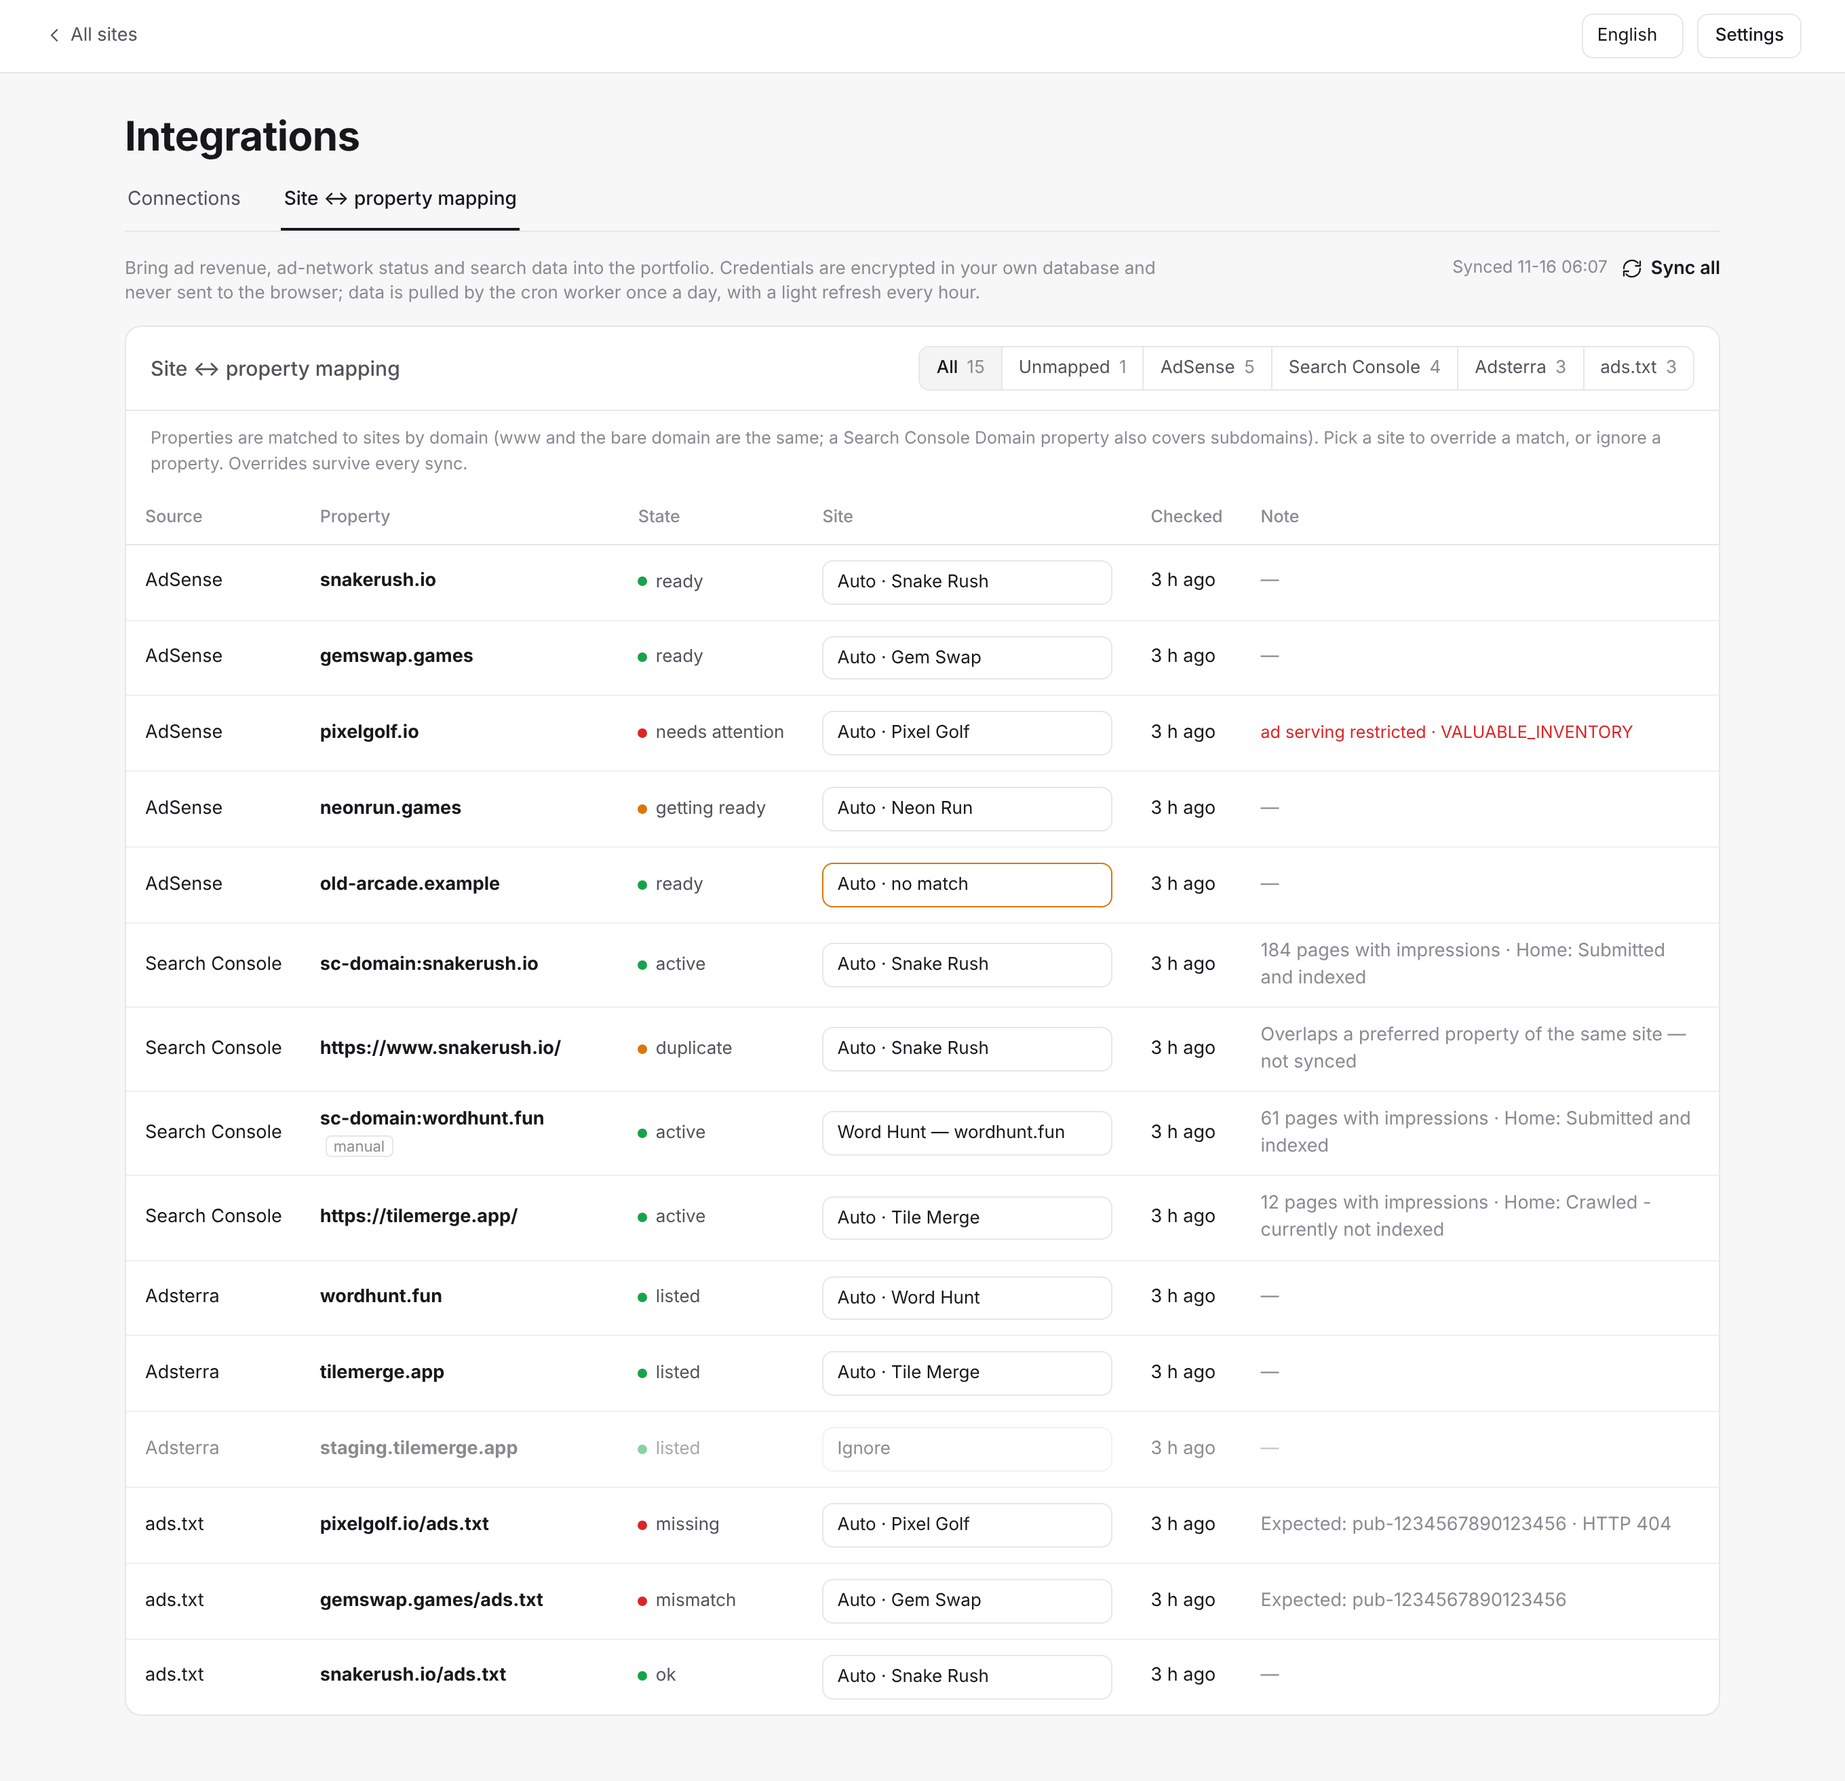
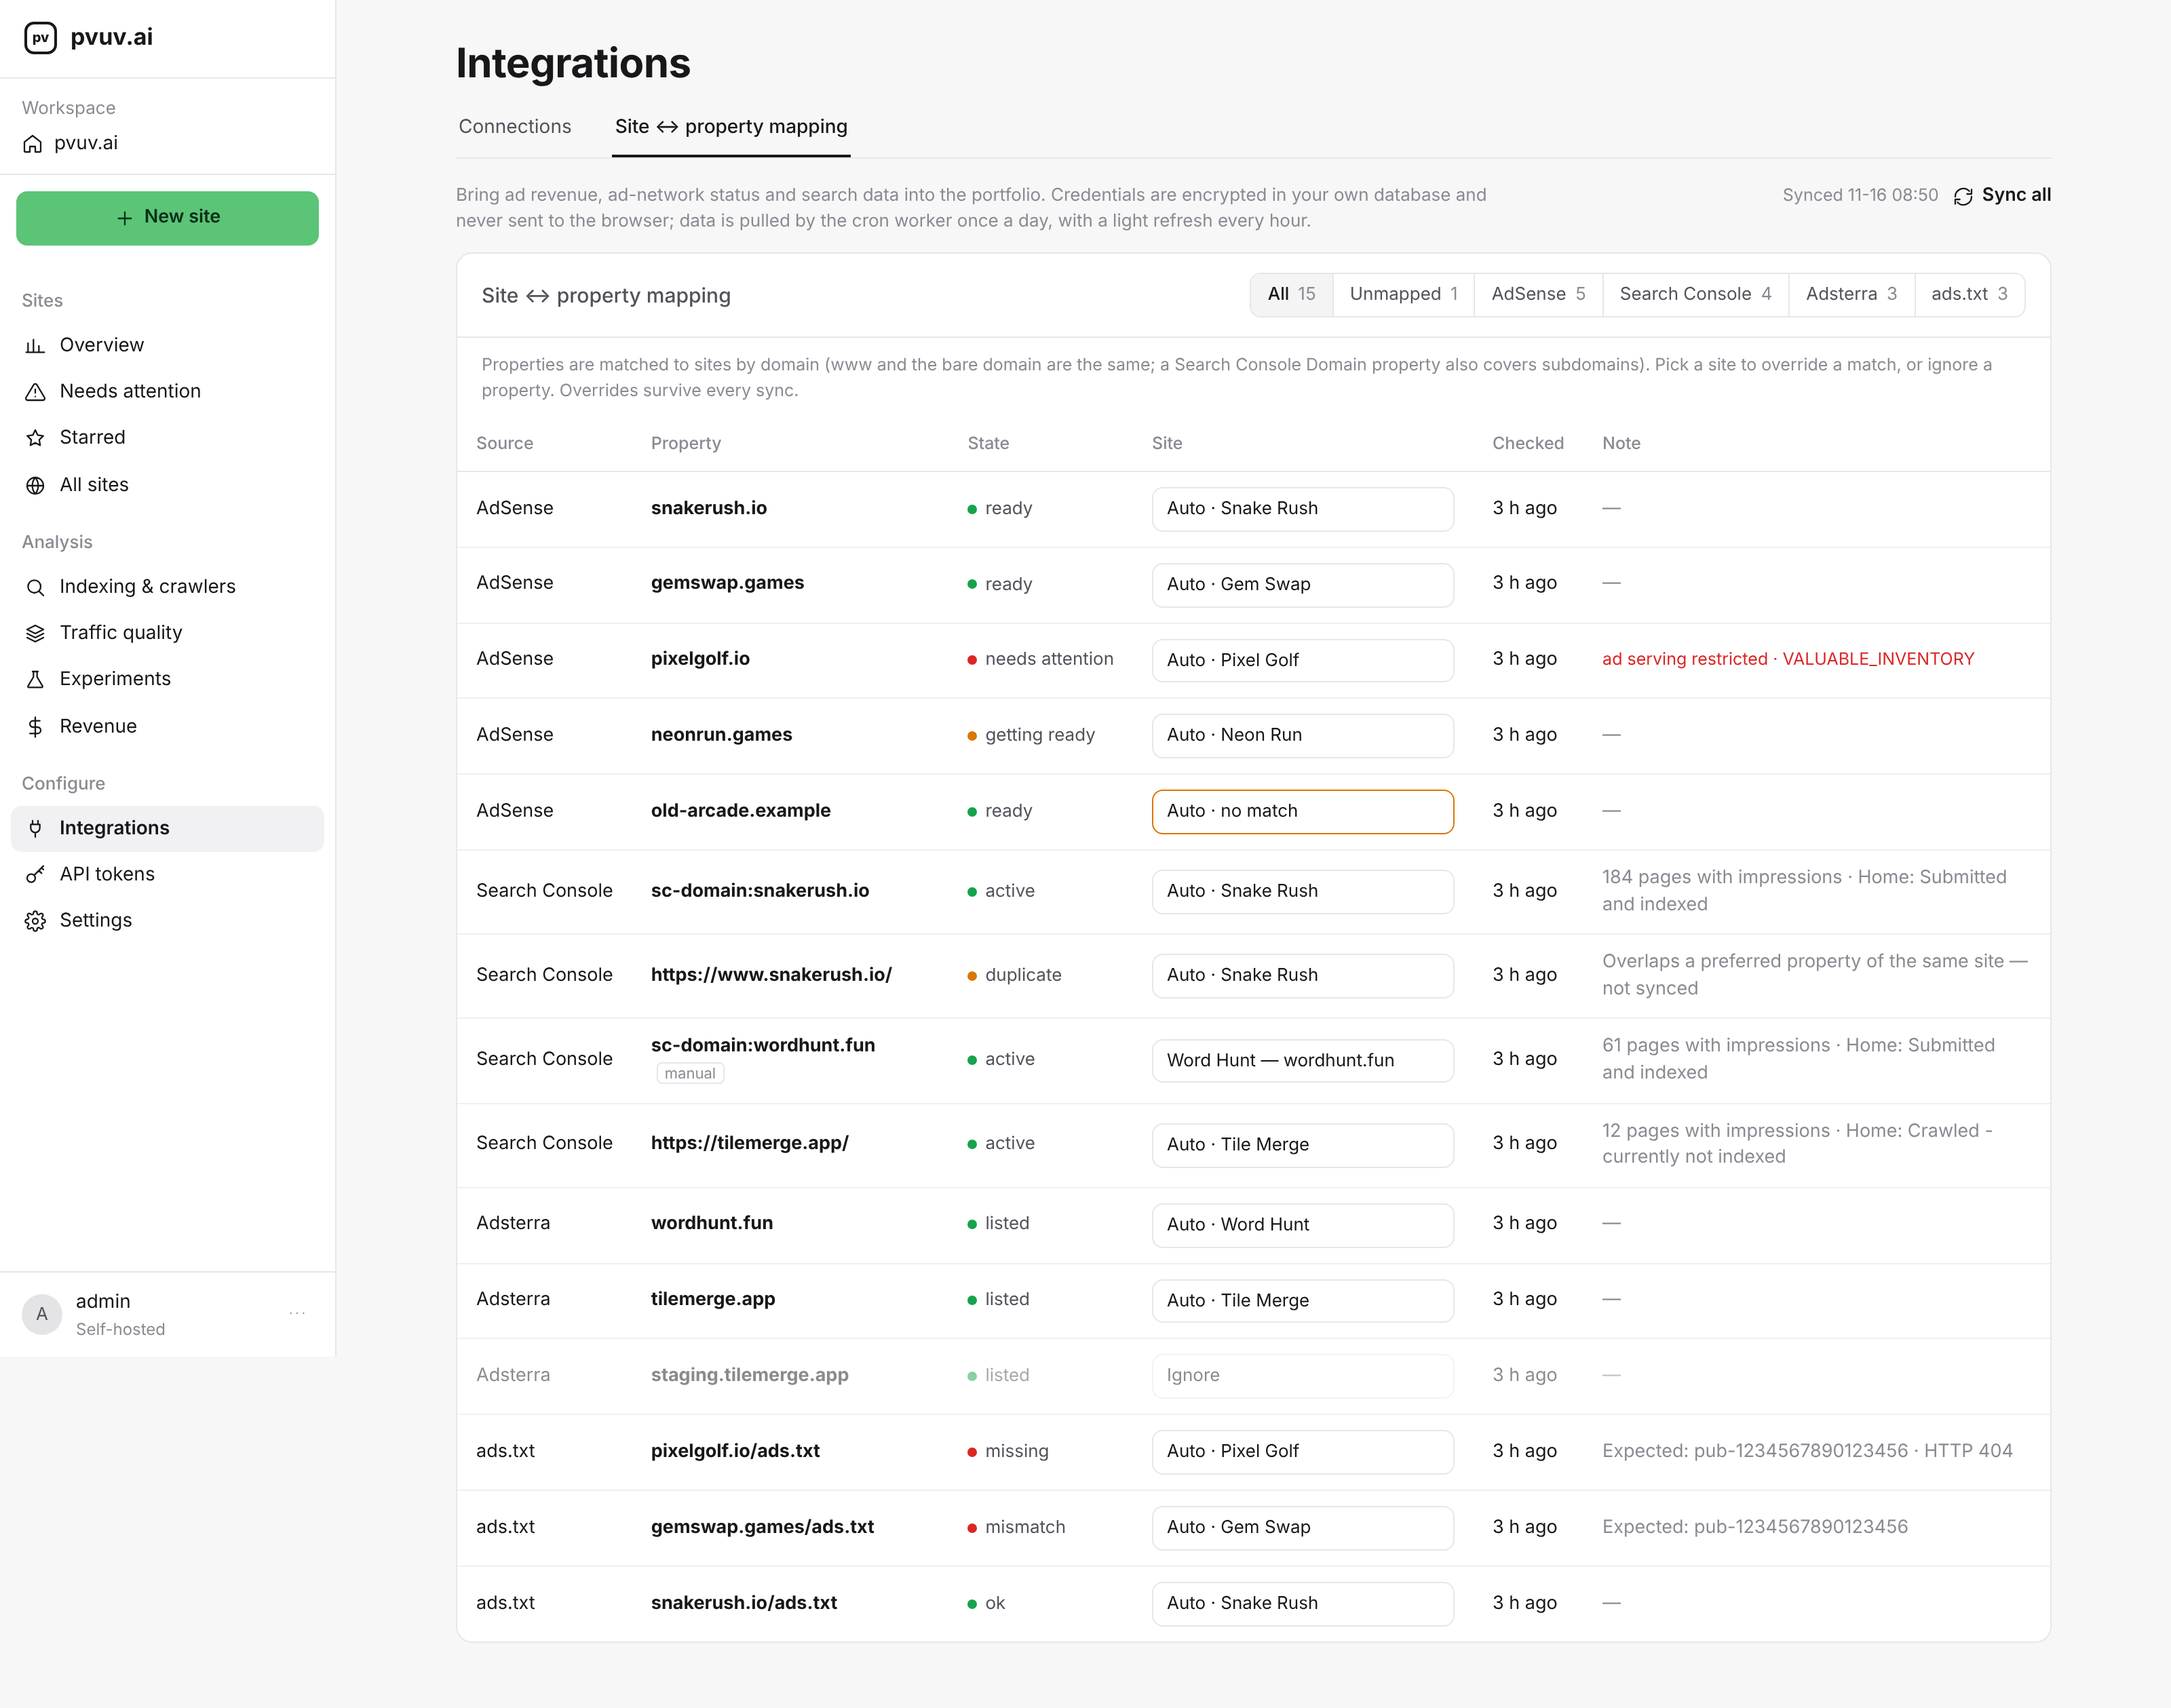
feat(integrations): adopt the shared shell; revenue preset columns; i18n merge fix
- integrations.html: drop the page's own top bar, load cmdk.js + shell.js
  (Configure > Integrations active); narrow layout below 900px
- revenue preset: AdSense, ads.txt and Adsterra status columns (dot + text,
  localized ext.state.* labels)
- ui.js attnChip: critical (rank 0) sorted last because of a falsy check;
  English text for the external attention codes
- i18n.js: the merge had placed the Spanish p2/p3 blocks inside the new en
  dictionary (English UI rendered in Spanish); moved back into es, plus en
  entries for the p3 attn.* keys
- scripts/screens-portfolio-p3.mjs: reproducible p3 screenshots with mocked
  portfolio + integrations data (replaces the static overview mock);
  screenshots re-rendered incl. narrow and the revenue preset

Claude-Session: https://claude.ai/code/session_011SnvAqRpdubycKm6Rawpq5

diff --git a/workers/console/public/sites.html b/workers/console/public/sites.html
@@ -206,6 +206,9 @@ let PRESETS_REF = {}, COL_BY_REF = {};
 
 // ── columns ─────────────────────────────────────────────────────────────
 const extVal = (s, k) => (s.external ? s.external[k] : null);
+/** external status (AdSense state / ads.txt / Adsterra) → dot + grey text (portfolio:p3) */
+const EXT_GOOD = ['ready', 'ok', 'active'], EXT_BAD = ['needs_attention', 'missing', 'mismatch'];
+const extStatus = (v) => (v ? `<span class="stage"><i style="background:${EXT_GOOD.includes(v) ? 'var(--up)' : EXT_BAD.includes(v) ? 'var(--down)' : 'var(--warn)'}"></i>${esc(window.PVI18N.tk('ext.state.' + v, v.replace(/_/g, ' ')))}</span>` : '–');
 const COLS = [
   { id: 'stage', label: 'Stage', sort: (s) => ui.STAGES.indexOf(s.stage), render: (s) => ui.stageChip(s.stage, s.stage_since ? t('since') + ' ' + fmt.date(s.stage_since) : '') },
   { id: 'live', label: 'Live', num: true, sort: (s) => s.days_live, render: (s) => `<span class="m">${esc(fmt.days(s.days_live))}</span>` },
@@ -238,7 +241,10 @@ const COLS = [
   // external data (only offered when some site has it)
   { id: 'revenue', label: 'Revenue', num: true, ext: true, sort: (s) => extVal(s, 'revenue_usd') ?? -1, render: (s) => fmt.usd(extVal(s, 'revenue_usd')) },
   { id: 'rpm', label: 'RPM', num: true, ext: true, sort: (s) => extVal(s, 'rpm_usd') ?? -1, render: (s) => fmt.usd(extVal(s, 'rpm_usd')) },
-  { id: 'adsense', label: 'Ad network', ext: true, sort: (s) => s.external?.adsense?.status || '', render: (s) => (s.external?.adsense ? `<span class="stage"><i style="background:${['ready', 'approved', 'ok'].includes(s.external.adsense.status) ? 'var(--up)' : 'var(--warn)'}"></i>${te(s.external.adsense.status)}</span>` : '–') },
+  { id: 'adsense', label: 'AdSense', ext: true, sort: (s) => s.external?.adsense?.status || '', render: (s) => extStatus(s.external?.adsense?.status) },
+  // portfolio:p3 — ads.txt check and Adsterra activity
+  { id: 'ads_txt', label: 'ads.txt', ext: true, sort: (s) => s.external?.adsense?.ads_txt || '', render: (s) => extStatus(s.external?.adsense?.ads_txt) },
+  { id: 'adsterra', label: 'Adsterra', ext: true, sort: (s) => s.external?.adsterra?.revenue_usd ?? -1, render: (s) => extStatus(s.external?.adsterra?.status) },
 ];
 const COL_BY = Object.fromEntries(COLS.map((c) => [c.id, c]));
 COL_BY_REF = COL_BY;
@@ -247,7 +253,7 @@ const PRESETS = {
   overview: ['stage', 'live', 'uv', 'delta', 'trend', 'crawl', 'organic', 'ivt', 'revenue', 'rpm', 'adsense', 'attention'],
   crawl: ['stage', 'live', 'crawl', 'first_crawl', 'organic', 'ai', 'attention'],
   quality: ['stage', 'uv', 'pv', 'ivt', 'health', 'adguard', 'attention'],
-  revenue: ['stage', 'uv', 'delta', 'revenue', 'rpm', 'adsense', 'attention'],
+  revenue: ['stage', 'uv', 'delta', 'revenue', 'rpm', 'adsense', 'ads_txt', 'adsterra', 'attention'],
   ranking: ['rank', 'uv', 'ext_clean', 'internal', 'clean_pv', 'pv', 'human', 'ivt', 'trend'],
   growth: ['stage', 'uv', 'uv_prev', 'delta', 'trend', 'organic', 'ai', 'pv'],
   // experiments are per site (the site preview / dashboard): the table just lists sites to open

diff --git a/workers/console/public/console.css b/workers/console/public/console.css
@@ -543,9 +543,6 @@ body.p3 a { color: var(--text); }
 body.p3 .muted { color: var(--mut); }
 body.p3 .sp { flex: 1; }
 .p3-i { width: 16px; height: 16px; stroke: currentColor; fill: none; stroke-width: 1.7; stroke-linecap: round; stroke-linejoin: round; flex: none; }
-body.p3 header.p3-top { position: sticky; top: 0; z-index: 40; display: flex; align-items: center; gap: 10px; padding: 10px 32px; min-height: 0;
-  background: var(--surface); border-bottom: 1px solid var(--line); backdrop-filter: none; -webkit-backdrop-filter: none; }
-.p3-back { display: inline-flex; align-items: center; gap: 4px; color: var(--text-2) !important; font-size: 13.5px; }
 .p3-main { max-width: 1240px; margin: 0 auto; padding: 26px 32px 48px; }
 .p3-title { font-size: 30px; font-weight: 650; letter-spacing: -.01em; margin: 0 0 14px; color: var(--text); }
 .p3-tabs { display: flex; gap: 28px; border-bottom: 1px solid var(--line); margin-bottom: 18px; }
@@ -562,7 +559,12 @@ body.p3 header.p3-top { position: sticky; top: 0; z-index: 40; display: flex; al
 .p3-syncbtn.busy svg { animation: p3spin 1s linear infinite; }
 @keyframes p3spin { to { transform: rotate(360deg); } }
 .p3-cards { display: grid; grid-template-columns: repeat(3, minmax(0, 1fr)); gap: 14px; }
-@media (max-width: 900px) { .p3-cards { grid-template-columns: 1fr; } .p3-toolbar { flex-direction: column; } }
+@media (max-width: 900px) {
+  .p3-cards { grid-template-columns: 1fr; } .p3-toolbar { flex-direction: column; }
+  .p3-main { padding: 18px 16px 40px; } .p3-title { font-size: 24px; }
+  .p3-tabs { gap: 18px; overflow-x: auto; white-space: nowrap; }
+  .p3-sec, .p3-tbl { overflow-x: auto; } .p3-th { flex-wrap: wrap; }
+}
 .p3-card { background: var(--surface); border: 1px solid var(--line); border-radius: var(--radius); }
 .p3-cards > .p3-card { padding: 16px 18px; display: flex; flex-direction: column; min-height: 210px; }
 .p3-skel { opacity: .5; }
@@ -587,7 +589,7 @@ body.p3 .btn:hover { background: #f4f4f5; text-decoration: none; color: var(--te
 body.p3 .btn.p { background: var(--cta); border-color: var(--cta); color: var(--cta-text); font-weight: 600; }
 body.p3 .btn.p:hover { filter: brightness(.96); color: var(--cta-text); }
 body.p3 .btn.danger { color: var(--down); }
-body.p3 .p3-main :is(.p3-in, .p3-num-in, .p3-sel), body.p3 select#lang {
+body.p3 .p3-main :is(.p3-in, .p3-num-in, .p3-sel) {
   background: var(--surface); border: 1px solid var(--line); border-radius: var(--radius-sm); color: var(--text); padding: 6px 10px; font-size: 13px; }
 body.p3 .p3-main :is(.p3-in, .p3-num-in, .p3-sel):focus { border-color: var(--accent); outline: 2px solid var(--accent-soft); outline-offset: 0; }
 .p3-in { flex: 1; min-width: 140px; }

diff --git a/workers/console/public/i18n.js b/workers/console/public/i18n.js
@@ -3245,19 +3245,6 @@
       '{n} sites, totals for {period}. Bots and crawlers excluded.': '{n} sitios, totales de {period}. Bots y rastreadores excluidos.',
       '{pct} of visitors': '{pct} de los visitantes',
       'Menu': 'Menú',
-    },
-    // English for SYMBOLIC keys only (attn.<code>, …): ordinary
-    // English UI strings are their own keys and need no entry.
-    en: {
-      // ── portfolio:p1
-      'attn.no_data_24h': 'No data in the last {hours} h — check the embed code',
-      'attn.no_data_24h_never': 'No data received yet — check the embed code',
-      'attn.crawl_overdue': 'Live {days} days, no search engine has crawled it yet',
-      'attn.organic_overdue': 'Crawled {days} days ago, still no search visitors',
-      'attn.declining': 'Visitors down {pct}% over {days} days',
-      'attn.ivt_high': 'Invalid traffic {ivt_pct}%',
-      'attn.ivt_high_off': 'Invalid traffic {ivt_pct}% while ad protection is off',
-      'attn.ivt_spike': 'Invalid traffic jumped to {ivt_pct}% (was {prev_pct}%)',
       // ── portfolio:p2
       "Own y-scale": "Escala Y propia",
       "Sparkline scale": "Escala de minigráficos",
@@ -3497,6 +3484,25 @@
       "Sync all": "Sincronizar todo",
       "Sync": "Sincronizar",
       "Synced": "Sincronizado",
+    },
+    // English for SYMBOLIC keys only (attn.<code>, …): ordinary
+    // English UI strings are their own keys and need no entry.
+    en: {
+      // ── portfolio:p1
+      'attn.no_data_24h': 'No data in the last {hours} h — check the embed code',
+      'attn.no_data_24h_never': 'No data received yet — check the embed code',
+      'attn.crawl_overdue': 'Live {days} days, no search engine has crawled it yet',
+      'attn.organic_overdue': 'Crawled {days} days ago, still no search visitors',
+      'attn.declining': 'Visitors down {pct}% over {days} days',
+      'attn.ivt_high': 'Invalid traffic {ivt_pct}%',
+      'attn.ivt_high_off': 'Invalid traffic {ivt_pct}% while ad protection is off',
+      'attn.ivt_spike': 'Invalid traffic jumped to {ivt_pct}% (was {prev_pct}%)',
+      // ── portfolio:p3
+      'attn.traffic_no_revenue': '{uv} clean visitors but no ad revenue',
+      'attn.adsense_needs_attention': 'AdSense needs attention ({domain})',
+      'attn.ads_txt_problem': 'ads.txt problem: {status}',
+      'attn.network_declined': 'Ads disabled by {network}',
+      'attn.external_stale': '{source} data not updated for {hours} h',
     },
   };
 

diff --git a/workers/console/public/js/ui.js b/workers/console/public/js/ui.js
@@ -200,11 +200,19 @@
     'attn.ivt_high': 'Invalid traffic {ivt_pct}%',
     'attn.ivt_high_off': 'Invalid traffic {ivt_pct}% while ad protection is off',
     'attn.ivt_spike': 'Invalid traffic jumped to {ivt_pct}% (was {prev_pct}%)',
+    // portfolio:p3 — external data (docs/INTEGRATIONS.md §4)
+    'attn.traffic_no_revenue': '{uv} clean visitors but no ad revenue',
+    'attn.adsense_needs_attention': 'AdSense needs attention ({domain})',
+    'attn.ads_txt_problem': 'ads.txt problem: {status}',
+    'attn.network_declined': 'Ads disabled by {network}',
+    'attn.external_stale': '{source} data not updated for {hours} h',
   };
   /** top attention item as coloured text (red for critical/high, amber for normal) */
   function attnChip(list) {
     if (!list || !list.length) return '';
-    var a = list.slice().sort(function (x, y) { return (SEV_RANK[x.severity] || 9) - (SEV_RANK[y.severity] || 9); })[0];
+    // critical ranks 0, so a falsy check would sort it last — test for presence
+    var rank = function (x) { return x.severity in SEV_RANK ? SEV_RANK[x.severity] : 9; };
+    var a = list.slice().sort(function (x, y) { return rank(x) - rank(y); })[0];
     var more = list.length > 1 ? ' <b>+' + (list.length - 1) + '</b>' : '';
     return '<span class="att ' + (a.severity === 'normal' ? 'w' : 'c') + '" title="' + esc(list.map(attnText).join('\n')) + '">' + esc(attnText(a)) + more + '</span>';
   }

diff --git a/workers/console/public/integrations.html b/workers/console/public/integrations.html
@@ -8,12 +8,8 @@
 </head>
 <body class="p3">
 <script src="/i18n.js"></script>
-<header class="p3-top">
-  <a href="/sites.html" class="p3-back"><svg class="p3-i" viewBox="0 0 24 24"><path d="M15 18l-6-6 6-6"/></svg><span data-i18n="All sites">All sites</span></a>
-  <span class="sp"></span>
-  <select id="lang" aria-label="Language"></select>
-  <a href="/settings.html" class="btn" data-i18n="Settings">Settings</a>
-</header>
+<script src="/js/cmdk.js"></script>
+<script src="/js/shell.js"></script>
 <main class="p3-main">
   <h1 class="p3-title" data-i18n="Integrations">Integrations</h1>
   <nav class="p3-tabs" id="tabs">
@@ -271,7 +267,6 @@ document.addEventListener('change', async (ev) => {
   try { await api('/api/integrations/mapping', { method: 'PUT', body: JSON.stringify(body) }); await load(); } catch (e) { alert(e.message); }
 });
 
-window.PVI18N.mountSelect(document.getElementById('lang'));
 window.PVI18N.applyStatic();
 document.addEventListener('pvuv:lang', () => { if (data) render(); renderBanner(); });
 renderBanner();
